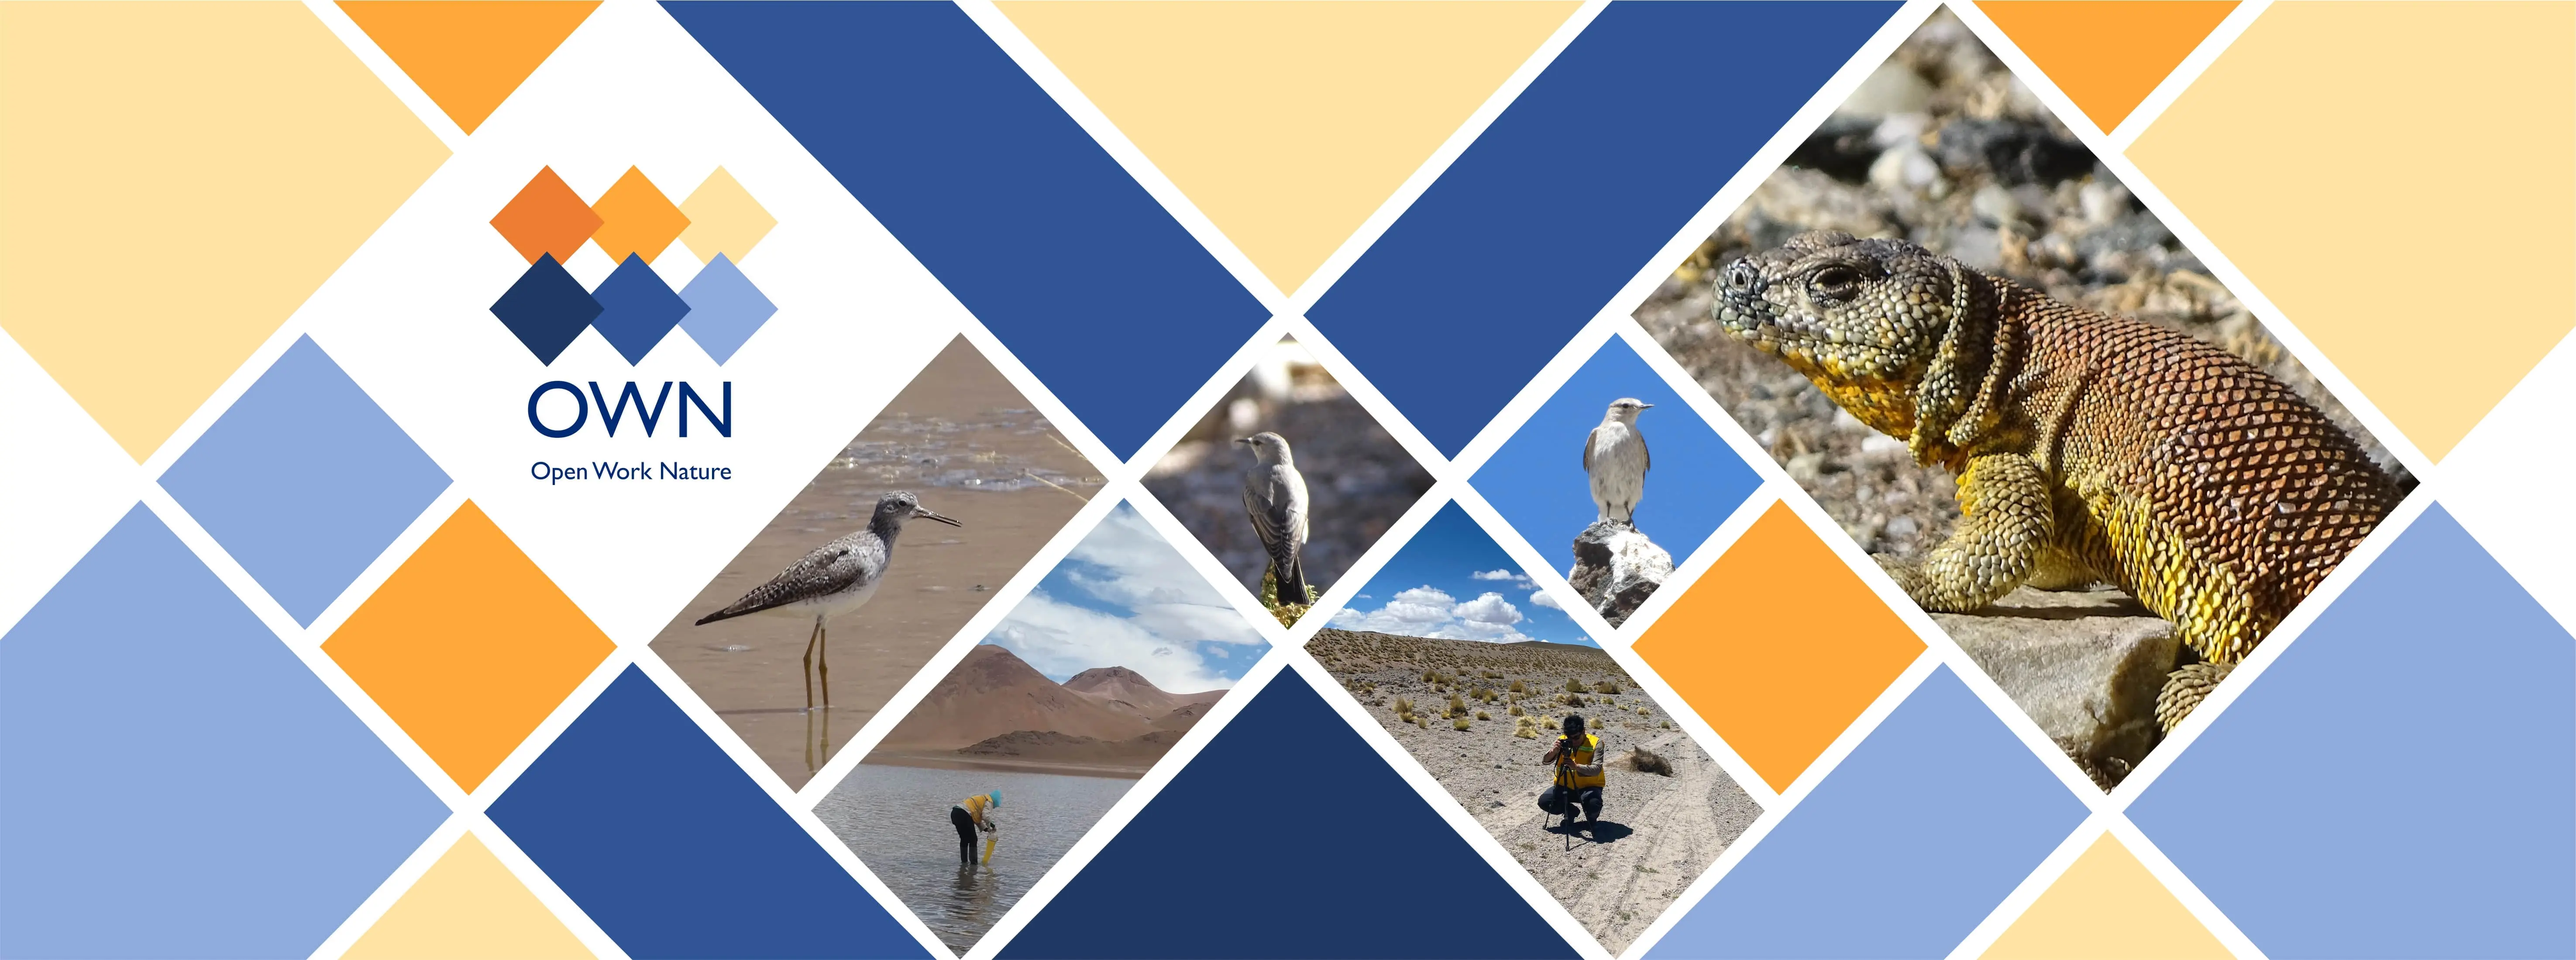
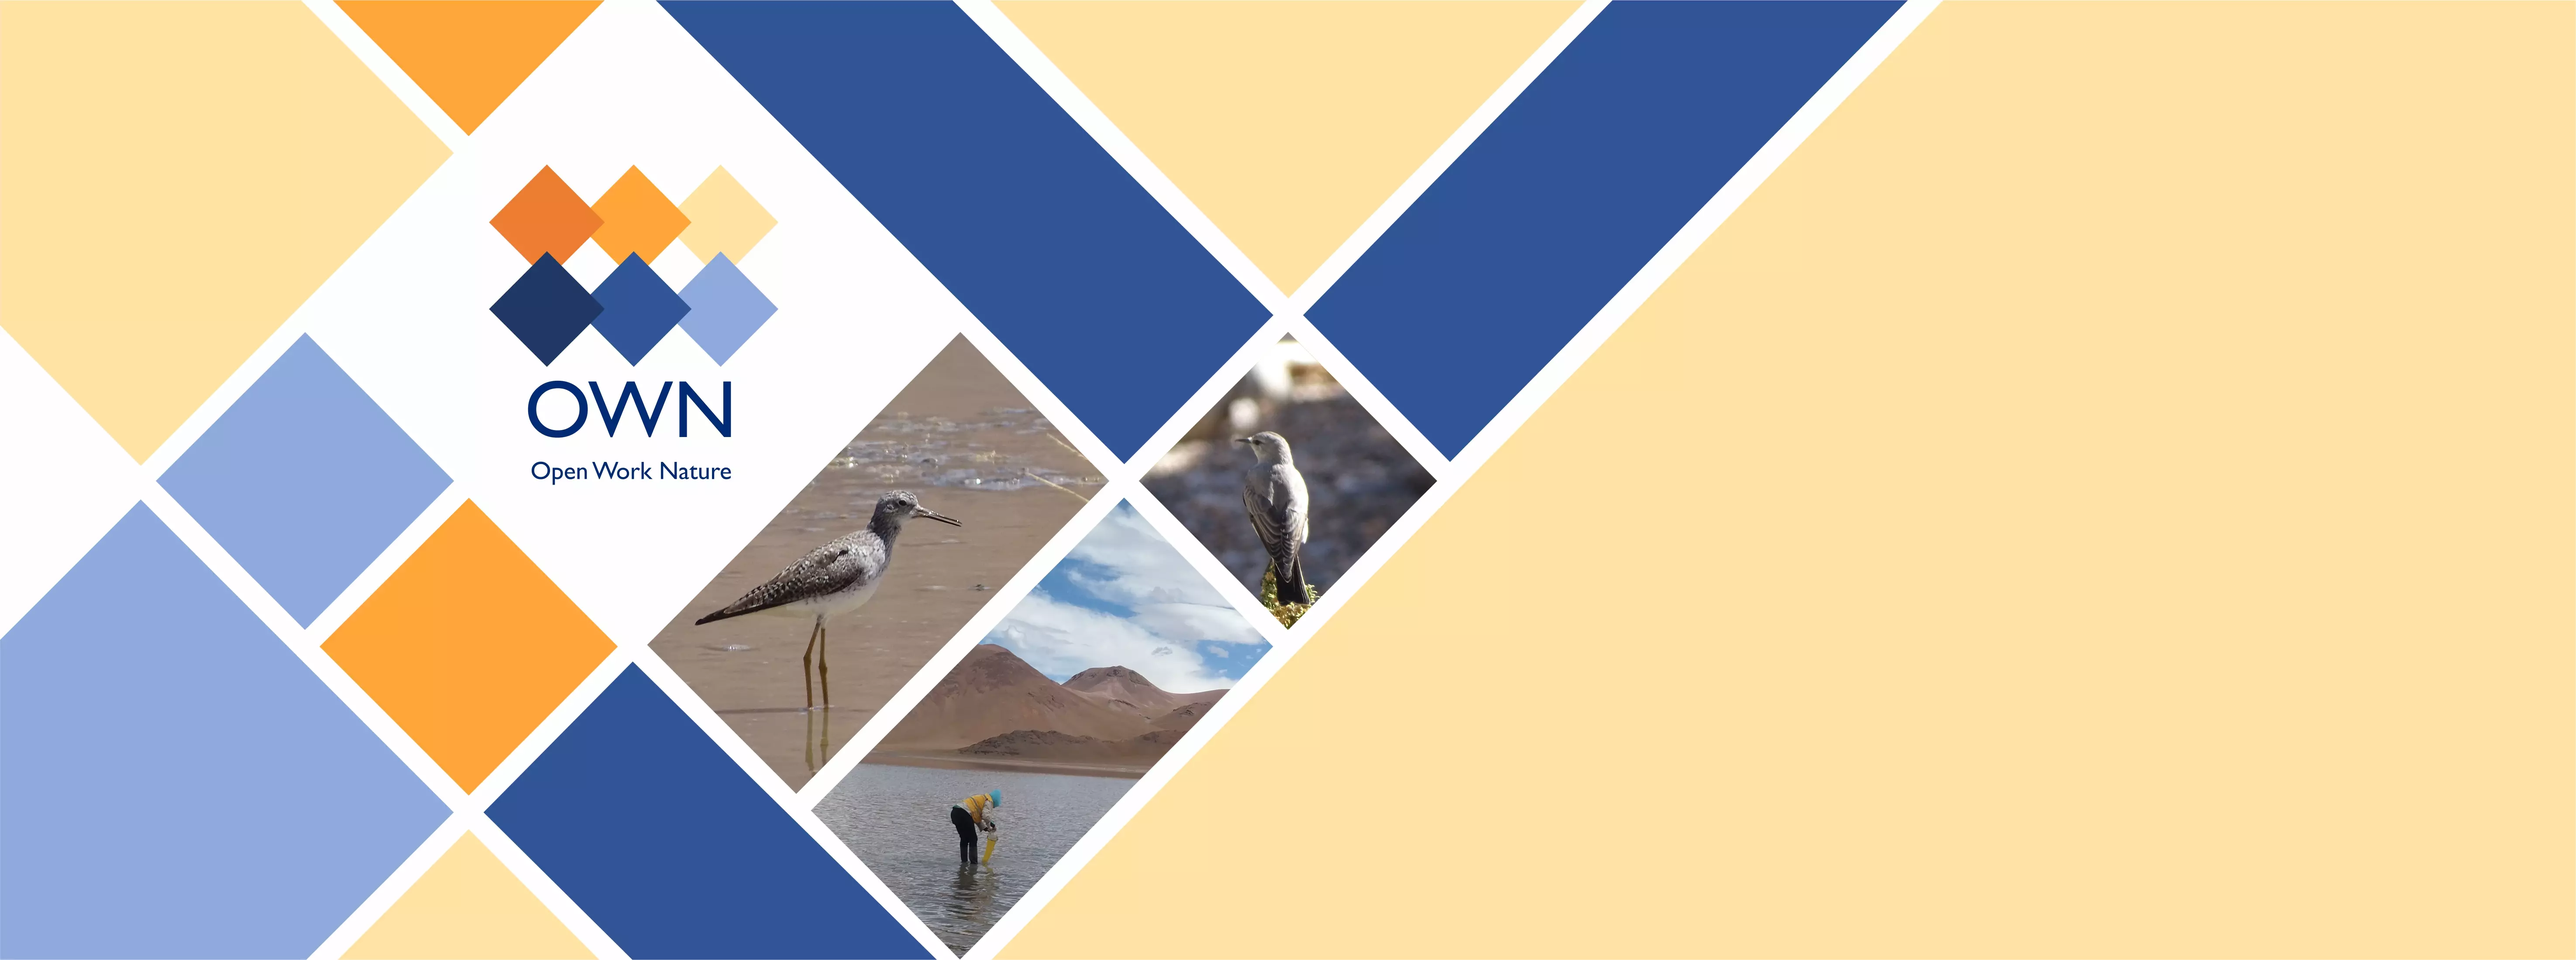
previaje

diff --git a/index.php b/index.php
@@ -55,26 +55,23 @@
         <!-- Slider Area Start-->
         <div class="slider-area ">
             <div class="slider-active">
-                <div class="single-slider slider-height d-flex align-items-center" data-background="assets/img/hero/slider21.webp"> <!--Imagen de portada de inicio lado derecho -->
+                <div class="single-slider slider-height d-flex align-items-center" data-background="assets/img/hero/slider21.webp">  <!--Imagen de portada de inicio lado derecho -->
                     <div class="container">
                         <div class="row d-flex align-items-center">
-                            <div class="col-lg-4 col-md-6 col-sm-12 d-none d-md-block">
+                            <div class="col-lg-8 col-md-6 col-sm-12 d-none d-md-block">
                                 <div class="hero__caption">
                                     <!-- <img src="assets/img/hero/Logo2.png" alt="logoAltOWN"> -->
                                 </div>
                             </div>
-
-                            <div class="col-lg-4 col-md-6 col-sm-12">
+                            <div class="col-lg-4 col-md-6 col-sm-12" style="padding-top:200px">
                                 <div class="hero__caption">
-                                    <!--                                 
-                                        <h1 data-animation="fadeInLeft" data-delay=".4s">NOS ADAPTAMOS A LAS NECESIDADES DE NUESTROS CLIENTES EN CUALQUIERA DE LAS ETAPAS DE UN PROCESO PRODUCTIVO
-                                    -->
                                     <p>
-                                    <h2 class="text-uppercase" style="color: #ed7d31;
-                                        text-align:justify-content-center;
-                                        -webkit-text-stroke:  2px #000;
-                                        font-weight: 800;" data-animation="fadeInLeft" data-delay=".6s">Nos adaptamos a las necesidades
-                                        de nuestros clientes en cualquiera de las etapas del proceso productivo.</h2>
+                                        <h2 class="text-uppercase" 
+                                            style="color: #000; text-align:justify-content-right; font-weight: 700; "
+                                            data-animation="fadeInLeft" 
+                                            data-delay=".6s">
+                                            Nos adaptamos a las necesidades de nuestros clientes en cualquiera de las etapas del proceso productivo.
+                                        </h2>
                                     </p>
                                     <!-- Hero-btn -->
                                     <div class="hero__btn text-center" data-animation="fadeInLeft" data-delay=".6s">
@@ -82,15 +79,9 @@
                                     </div>
                                 </div>
                             </div>
-                            <div class="col-lg-4">
-                                <!--<div class="hero__img d-none d-lg-block" data-animation="fadeInRight" data-delay="1s">
-                                    <img src="assets/img/hero/slider1.jpg" alt="">
-                                </div>-->
-                            </div>
                         </div>
                     </div>
                 </div>
-
             </div>
         </div>
         <!-- Slider Area End-->
